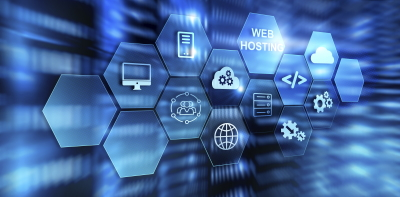
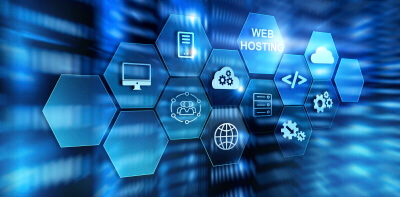
greatly reduced image size for faster loading

diff --git a/css/style.css b/css/style.css
@@ -782,10 +782,6 @@ video {
   cursor: default;
 }
 
-.cursor-none {
-  cursor: none;
-}
-
 .flex-col {
   flex-direction: column;
 }
@@ -991,6 +987,11 @@ video {
   color: rgb(74 222 128 / var(--tw-text-opacity));
 }
 
+.text-green-200 {
+  --tw-text-opacity: 1;
+  color: rgb(187 247 208 / var(--tw-text-opacity));
+}
+
 .text-slate-300 {
   --tw-text-opacity: 1;
   color: rgb(203 213 225 / var(--tw-text-opacity));
@@ -999,11 +1000,6 @@ video {
 .text-red-700 {
   --tw-text-opacity: 1;
   color: rgb(185 28 28 / var(--tw-text-opacity));
-}
-
-.text-green-200 {
-  --tw-text-opacity: 1;
-  color: rgb(187 247 208 / var(--tw-text-opacity));
 }
 
 .underline {
@@ -1515,6 +1511,11 @@ input[type="file"] {
 .hover\:text-secondary:hover {
   --tw-text-opacity: 1;
   color: rgb(90 79 207 / var(--tw-text-opacity));
+}
+
+.hover\:text-green-400:hover {
+  --tw-text-opacity: 1;
+  color: rgb(74 222 128 / var(--tw-text-opacity));
 }
 
 .hover\:underline:hover {

diff --git a/index.html b/index.html
@@ -19,10 +19,18 @@
 
 <body class="h-fit" style="min-height: 20vh;">
 
-    <div class="banner mx-auto bg-primary-blue shadow-ct flex justify-center items-center flex-col relative rounded-lg">
+    <div class="banner mx-auto bg-primary shadow-ct flex justify-center items-center flex-col relative rounded-lg">
         <h2 class="absolute top-0 mt-3 text-2xl font-bold underline">Maintenance</h2>
-        <p>This Website is currently under maintenance</p>
-        <p>Please check back later!</p>
+        <div class="text-center">
+            <p>This Website is currently under maintenance</p>
+            <p>Please check back later!</p>
+            <br>
+            <p>Currently working on my first php project </br>
+                Check current progress on <a class="underline hover:text-green-400"
+                    href="https://github.com/crysis992/crytec-website">Github</a>
+
+            </p>
+        </div>
     </div>
 
 </body>
